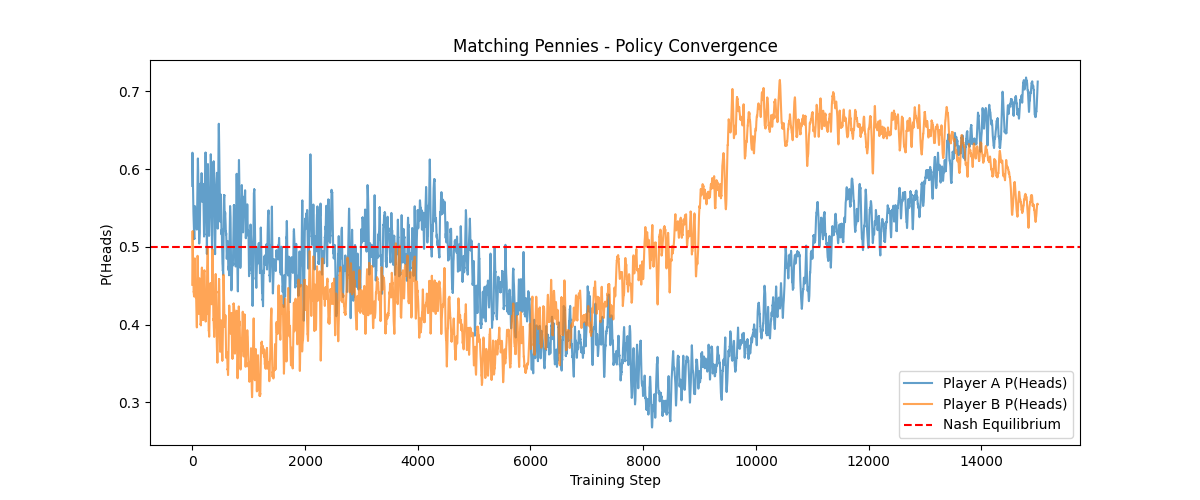
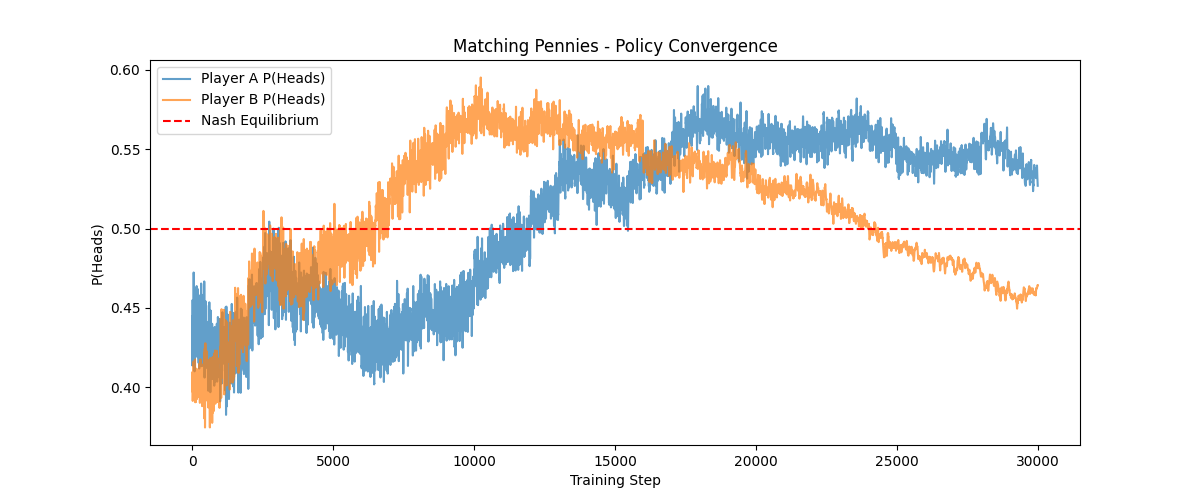
add metrics such as exploitability and update readme

diff --git a/training-vanilla.py b/training-vanilla.py
@@ -1,0 +1,123 @@
+import torch
+import torch.nn as nn
+import torch.nn.functional as F
+import matplotlib.pyplot as plt
+import copy 
+
+def getreward(x, y): # b gets reward if diff, a gets  
+    dist_A = torch.distributions.Categorical(x)
+    sample_A = dist_A.sample() 
+    dist_B =  torch.distributions.Categorical(y)
+    sample_B = dist_B.sample()
+    
+    if(sample_A == sample_B):
+        return 1, -1, dist_A.log_prob(sample_A), dist_B.log_prob(sample_B)
+    else:
+        return -1, 1, dist_A.log_prob(sample_A), dist_B.log_prob(sample_B)
+        
+class MLP(nn.Module):
+    def __init__(self, in_dim, out_dim, mlp_dim):
+        super().__init__()
+        self.fc1 = nn.Linear(in_dim, mlp_dim)
+        self.fc2 = nn.Linear(mlp_dim, out_dim)
+    
+    def forward(self, x):
+        x = self.fc1(x)
+        x = F.relu(x)
+        x = self.fc2(x)
+        return torch.softmax(x, dim=-1) 
+        
+        
+training_steps = 30000
+mlp_A = MLP(2, 2, 200)
+mlp_B = MLP(2, 2, 200)
+
+sample_size = 5
+input = torch.zeros(2)
+
+eps = 1e-8
+history_A = []
+history_B = []
+history_exploitable_A = []
+history_exploitable_B = []
+history_lyuponov_A = []
+history_lyuponov_B = []
+
+
+optimizer_A = torch.optim.Adam(mlp_A.parameters(), lr=1e-3)
+optimizer_B = torch.optim.Adam(mlp_B.parameters(), lr=1e-3)
+for i in range(training_steps):
+    rewards_A = []
+    rewards_B = []
+    probs_A = []
+    probs_B = []
+    for _ in range(sample_size):
+        gen_A = mlp_A(input)
+        gen_B = mlp_B(input)
+        reward_A, reward_B, prob_A, prob_B= getreward(gen_A, gen_B)
+        rewards_A.append(torch.tensor(reward_A, dtype=torch.float32))
+        rewards_B.append(torch.tensor(reward_B, dtype=torch.float32))
+        probs_A.append(prob_A)
+        probs_B.append(prob_B)
+            
+    rewards_A = torch.stack(rewards_A).detach() # detach graph
+    rewards_B =  torch.stack(rewards_B).detach()
+    probs_A = torch.stack(probs_A)  # preserve gradient graph,ldike so grad can floww
+    probs_B = torch.stack(probs_B) 
+    rewards_A = (rewards_A - rewards_A.mean())/(rewards_A.std() + eps)
+    rewards_B = (rewards_B - rewards_B.mean())/(rewards_B.std() + eps)
+    loss_A = -(rewards_A * probs_A).mean() 
+    loss_B = -(rewards_B * probs_B).mean() 
+    
+    if((i+1) % 10 == 0):
+        print(f"loss A: {loss_A} loss_B: {loss_B}")
+        print(f"Probs A: {prob_A} | Probs B: {prob_B}")
+    with torch.no_grad():
+        pA = mlp_A(input)[0].item()
+        pB = mlp_B(input)[0].item()
+        history_A.append(pA)
+        history_B.append(pB)
+        exploit_A = max(2*pB - 1, 1 - 2*pB) - (pA * (2*pB - 1) + (1-pA) * (1 - 2*pB))
+        exploit_B = max(2*pA - 1, 1 - 2*pA) - (pB * (2*pA - 1) + (1-pB) * (1 - 2*pA))
+        history_exploitable_A.append(exploit_A)
+        history_exploitable_B.append(exploit_B)
+        gen_A_val = mlp_A(input)
+        gen_B_val = mlp_B(input)
+        history_lyuponov_A.append((0.5 * (torch.log(torch.tensor(0.5, dtype=torch.float32)) - torch.log(gen_A_val))).sum().item())
+        history_lyuponov_B.append((0.5 * (torch.log(torch.tensor(0.5, dtype=torch.float32)) - torch.log(gen_B_val))).sum().item())
+    optimizer_A.zero_grad()
+    optimizer_B.zero_grad()
+    loss_A.backward()
+    loss_B.backward()
+    optimizer_A.step()
+    optimizer_B.step()
+
+fig, (ax1, ax2, ax3) = plt.subplots(1, 3, figsize=(20, 5))
+
+ax1.plot(history_A, label="Player A P(Heads)", alpha=0.7)
+ax1.plot(history_B, label="Player B P(Heads)", alpha=0.7)
+ax1.axhline(y=0.5, color='r', linestyle='--', label="Nash Equilibrium")
+ax1.set_xlabel("Training Step")
+ax1.set_ylabel("P(Heads)")
+ax1.set_title("Policy Convergence (Vanilla)")
+ax1.legend()
+
+nashconv = [a + b for a, b in zip(history_exploitable_A, history_exploitable_B)]
+ax2.plot(nashconv, label="NashConv", alpha=0.7, color='purple')
+ax2.axhline(y=0.0, color='r', linestyle='--', label="Nash (0)")
+ax2.set_xlabel("Training Step")
+ax2.set_ylabel("Exploitability")
+ax2.set_title("NashConv (Exploitability)")
+ax2.legend()
+
+lyapunov = [a + b for a, b in zip(history_lyuponov_A, history_lyuponov_B)]
+ax3.plot(lyapunov, label="Lyapunov Potential", alpha=0.7, color='green')
+ax3.axhline(y=0.0, color='r', linestyle='--', label="Nash (0)")
+ax3.set_xlabel("Training Step")
+ax3.set_ylabel("KL(pi || uniform)")
+ax3.set_title("Lyapunov Potential Decay")
+ax3.legend()
+
+plt.tight_layout()
+plt.savefig("convergence_vanilla.png")
+plt.show()

diff --git a/README.md b/README.md
@@ -1,0 +1,63 @@
+# Matching Pennies - R-NaD
+
+Two RL agents learn to play the zero-sum game **Matching Pennies** using **Regularized Nash Dynamics (R-NaD)**, converging to the Nash equilibrium (50/50 mixed strategy).
+
+## The Game
+
+- Player A and Player B simultaneously choose Heads or Tails
+- **Same** = Player A wins (+1 for A, -1 for B)
+- **Different** = Player B wins (-1 for A, +1 for B)
+- **Nash equilibrium**: both players play 50/50
+
+## Approach
+
+Each player is a small MLP that outputs a probability distribution over {Heads, Tails}. Both agents are trained with REINFORCE (policy gradient).
+
+### The Problem: Cycling (Vanilla REINFORCE)
+
+With vanilla REINFORCE, the agents cycle endlessly -- policies slam between 0 and 1, NashConv spikes to ~4.0, and the Lyapunov potential never decays. This is replicator dynamics in action.
+
+![Vanilla REINFORCE - Cycling](convergence_vanilla.png)
+
+### The Fix: R-NaD
+
+R-NaD adds a KL divergence penalty toward a periodically-updated reference policy. This acts as "friction" that dampens oscillations, enabling convergence to Nash.
+
+- **Inner loop**: policy gradient + KL penalty toward frozen reference
+- **Outer loop**: periodically update reference to current policy
+
+![R-NaD - Convergence](convergence_rnad.png)
+
+### Results Comparison
+
+| Metric | Vanilla REINFORCE | R-NaD |
+|---|---|---|
+| P(Heads) range | 0.0 - 1.0 (wild swings) | 0.42 - 0.60 (near Nash) |
+| NashConv (exploitability) | Spikes to ~4.0 | Hovers around 0.05 - 0.15 |
+| Lyapunov potential | ~3.0 - 4.0 (no decay) | ~0.0 - 0.03 (near zero) |
+
+## Understanding the Plots
+
+Each run produces three plots:
+
+### Policy Convergence (left panel)
+Tracks P(Heads) for both players over training steps. The red dashed line at 0.5 is the Nash equilibrium.
+- **Vanilla**: Both players swing between deterministic strategies (0.0 and 1.0). When A commits to Heads, B exploits this by switching to Tails, then A adapts, and the cycle repeats. This is a discrete-time manifestation of replicator dynamics, which provably cycles in zero-sum games.
+- **R-NaD**: Both players stay close to 0.5 with small fluctuations. The KL penalty toward the reference policy acts as a leash, preventing either agent from overcommitting to a pure strategy. The remaining noise comes from REINFORCE variance (single-sample reward estimates).
+
+### NashConv / Exploitability (middle panel)
+Measures how much each player could gain by switching to a best response against the opponent's current strategy, summed over both players. At Nash equilibrium this is 0 -- neither player benefits from deviating.
+- **Vanilla**: Exploitability spikes whenever a player commits to a near-pure strategy, since the opponent's best response would yield a large payoff. The spikes never shrink because the system has no mechanism to dampen oscillations.
+- **R-NaD**: Exploitability stays low because neither player ever strays far enough from 50/50 to be significantly exploitable.
+
+### Lyapunov Potential Decay (right panel)
+Tracks KL(pi_A || uniform) + KL(pi_B || uniform) -- the total divergence of both policies from the Nash equilibrium. This serves as a Lyapunov-style energy function: if it trends toward zero, the system is converging.
+- **Vanilla**: The potential oscillates at high values (3.0-4.0) indefinitely. There is no "friction" in the dynamics, so energy is conserved and the system orbits the equilibrium without approaching it.
+- **R-NaD**: The potential stays near zero (0.0-0.03). The KL regularization introduces friction that dissipates energy, causing the system to spiral inward toward equilibrium rather than orbit around it.
+
+## Run
+
+```bash
+python training-vanilla.py   # Vanilla REINFORCE (cycling)
+python training-RNaD.py      # R-NaD (convergence)
+```